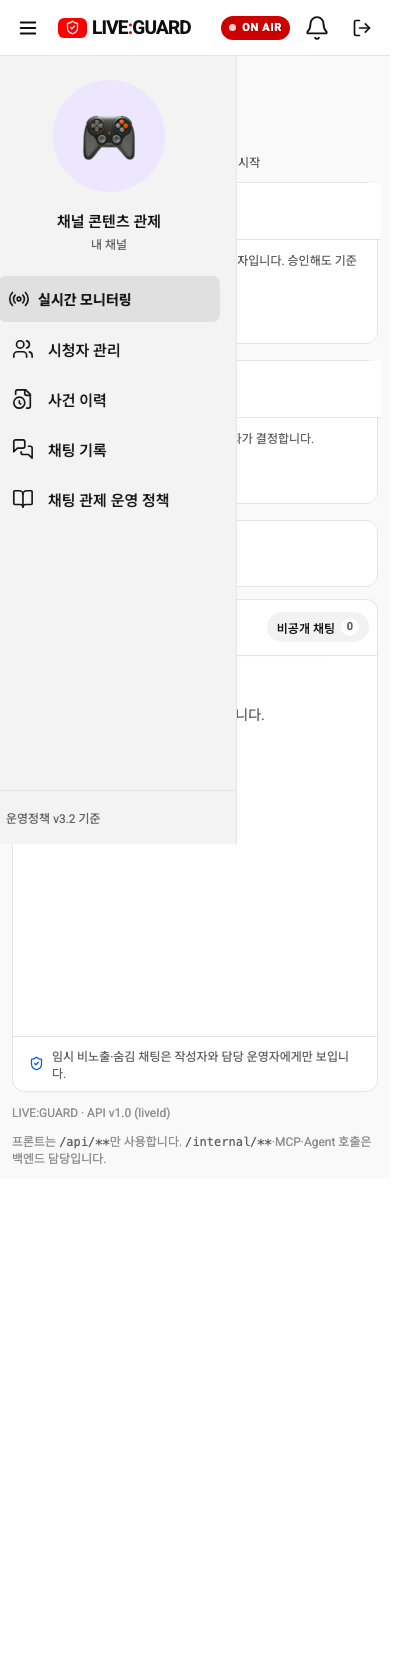
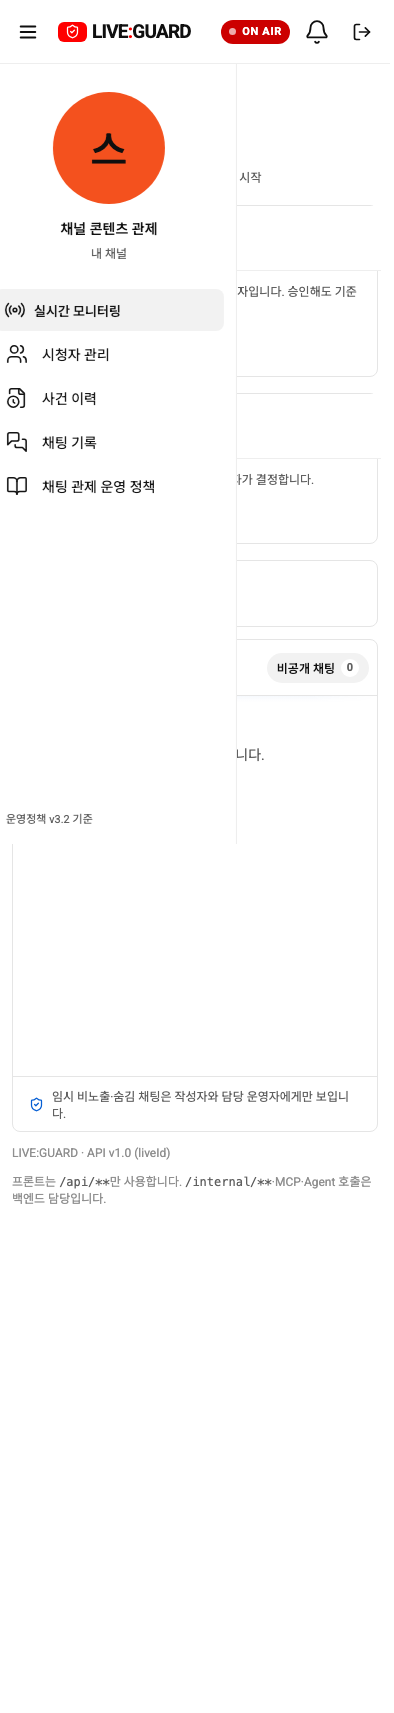
style: align operator consoles with the YouTube Studio reference

diff --git a/src/StudioScreen.vue b/src/StudioScreen.vue
@@ -2,7 +2,7 @@
 // 운영자(스트리머) Studio 화면. 목업과 실제 API가 같은 화면을 쓴다(#12).
 // 화면은 API v1.0 모양의 데이터와 사용자 동작만 다룬다. API·SSE 연결은 LiveConsole.vue, 목업 판정은 mockLive.ts가 맡는다.
 import { computed, nextTick, onBeforeUnmount, onMounted, reactive, ref, watch } from 'vue';
-import { AlertCircle, BookOpen, ChevronDown, ChevronRight, ClipboardCheck, FileClock, LogOut, Menu, MessagesSquare, Pause, Play, Radio, RefreshCcw, ShieldCheck, Sparkles, Users, UserX } from 'lucide-vue-next';
+import { AlertCircle, BookOpen, ChevronDown, ChevronRight, ClipboardCheck, FileClock, LogOut, Menu, MessagesSquare, Pause, Play, Radio, RefreshCcw, ShieldCheck, Users, UserX } from 'lucide-vue-next';
 import ViewerManage from './ViewerManage.vue';
 import OperatorTools from './OperatorTools.vue';
 import DecisionNotifications from './DecisionNotifications.vue';
@@ -340,7 +340,7 @@ const dictRows: { name: string; words: string[]; result: string }[] = [
     <div class="app-body">
       <div v-if="!wide && navOpen" class="nav-backdrop" @click="navOpen = false"/>
       <aside id="operator-nav" class="sidebar" :class="{open: !wide && navOpen, docked: wide && !navCollapsed}" :aria-hidden="!navVisible" :inert="!navVisible">
-        <div class="sidebar-channel"><span class="yt-channel-avatar big">🎮</span><b>채널 콘텐츠 관제</b><small>{{channelName}}</small></div>
+        <div class="sidebar-channel"><span class="yt-channel-avatar big" :style="{background: avatarColor(nickname)}">{{nickname.slice(0,1)}}</span><b>채널 콘텐츠 관제</b><small>{{channelName}}</small></div>
         <nav class="side-nav" aria-label="운영자 메뉴">
           <button aria-label="실시간 모니터링" :class="{active: page==='monitor'}" :aria-current="page==='monitor' ? 'page' : undefined" @click="goto('monitor')"><Radio :size="22" :stroke-width="1.8"/><span>실시간 모니터링</span><b v-if="pending.length" class="side-count">{{pending.length}}</b></button>
           <button :class="{active: page==='viewers'}" :aria-current="page==='viewers' ? 'page' : undefined" @click="goto('viewers')"><Users :size="22" :stroke-width="1.8"/><span>시청자 관리</span></button>
@@ -352,7 +352,7 @@ const dictRows: { name: string; words: string[]; result: string }[] = [
       </aside>
       <div class="workspace">
         <main class="main-content">
-          <div class="status-strip"><div><Sparkles :size="16"/><b>{{pageTitles[page]}}</b></div>
+          <div class="status-strip"><div><Radio :size="18"/><b>{{pageTitles[page]}}</b></div>
             <div class="status-controls"><button v-if="!mock" @click="emit('refresh')"><RefreshCcw :size="14"/> 새로고침</button><button v-if="!mock && !loading && (!live || ended)" class="primary" :disabled="busy" @click="emit('start')">방송 시작</button><button v-if="!mock && live && !ended" :disabled="busy" @click="emit('end')">방송 종료</button></div></div>
           <OperatorTools ref="operatorToolsRef" :live-id="live?.liveId??''" :ended="ended" :reviews="reviews" :progress="kickProgress" @navigate="navigateTool" @open="openToolAlert"/>
           <p v-if="error" class="error-inline" role="alert"><AlertCircle :size="17"/> {{error}}</p>
@@ -407,7 +407,7 @@ const dictRows: { name: string; words: string[]; result: string }[] = [
                   </article>
                 </section>
             <section class="monitor-grid chat-only">
-              <div class="stream-panel card"><div class="stream-caption"><span class="yt-channel-avatar">🎮</span><div><b>{{mock ? '오늘도 게임하는 날! 같이 놀아요 🎮' : '오늘의 라이브'}}</b><small>{{channelName}} · <span class="live-badge">{{ended ? '방송 종료' : '● 실시간'}}</span></small></div></div></div>
+              <div class="stream-panel card"><div class="stream-caption"><span class="yt-channel-avatar studio-stream-icon"><Radio :size="20" :stroke-width="1.7"/></span><div><b>{{mock ? '오늘도 게임하는 날! 같이 놀아요 🎮' : '오늘의 라이브'}}</b><small>{{channelName}} · <span class="live-badge">{{ended ? '방송 종료' : '● 실시간'}}</span></small></div></div></div>
               <div class="chat-panel card"><div class="panel-heading"><h2>실시간 채팅 <ChevronDown :size="17"/></h2><div class="panel-heading-end"><button v-if="feedOn !== null" class="icon-control" :class="{on: feedOn}" :title="feedOn ? '채팅 흐름 일시정지 (MOCK)' : '채팅 흐름 재생 (MOCK)'" :aria-pressed="feedOn" @click="emit('toggleFeed')"><Pause v-if="feedOn" :size="17"/><Play v-else :size="17"/></button><button class="blocked-toggle" :class="{on: filter==='private'}" :aria-pressed="filter==='private'" @click="filter = filter==='all' ? 'private' : 'all'" :title="filter==='all' ? '임시 비노출·숨김 채팅만 보기' : '전체 채팅 보기'">비공개 채팅 <b>{{privateCount}}</b></button></div></div>
                 <div class="scan-wrap"><span class="ai-scan" aria-hidden="true"/><div ref="chatRef" class="chat-list" @scroll.passive="onScroll">
                   <div v-for="m in shownMessages" :key="m.messageId" :data-message-id="m.messageId" class="chat-row" :class="{held: m.visibility==='HELD', hidden: m.visibility==='HIDDEN'}"><span class="chat-avatar" :style="{background: avatarColor(m.authorAlias)}">{{m.authorAlias.slice(0,1)}}</span><span class="chat-line"><b>{{m.authorAlias}}</b><span class="chat-text">{{m.text}}</span></span><span v-if="m.visibility!=='PUBLIC'" class="state-pill" :class="m.visibility.toLowerCase()">{{visibilityLabels[m.visibility]}}</span><time class="chat-time" :datetime="iso(m.sentAt)" :title="asTime(m.sentAt)">{{hourMinute(iso(m.sentAt))}}</time></div>

diff --git a/src/style.css b/src/style.css
@@ -1242,3 +1242,58 @@ code{font-family:'Roboto Mono',ui-monospace,Consolas,monospace}
 }
 
 .notification-activity-link{display:block;border:0;background:none;color:#065fd4;font-size:12px;margin-top:8px;padding:4px 0;cursor:pointer}
+
+/* YouTube Studio reference: white workspace, restrained chrome and neutral surfaces. */
+:is(.studio-shell,.sys-shell){background:#fff;color:#0f0f0f}
+:is(.studio-shell,.sys-shell) .topbar{height:64px;border-bottom:1px solid #eee;background:#fff}
+.studio-shell .sidebar{top:64px;height:calc(100dvh - 64px);background:#fff;border-right:1px solid #eee}
+.studio-shell .sidebar.docked{top:64px}
+.studio-shell .nav-backdrop{top:64px}
+.studio-shell .sidebar-channel{padding:28px 16px 24px;gap:6px}
+.studio-shell .sidebar-channel .big{width:112px;height:112px;font-size:40px;font-weight:500}
+.studio-shell .sidebar-channel b{font-size:14px;font-weight:500;margin-top:8px}
+.studio-shell .sidebar-channel small{font-size:12px;color:#606060}
+.studio-shell .side-nav{gap:2px;padding:4px 12px}
+.studio-shell .side-nav button{height:42px;font-size:14px;font-weight:400;border-radius:8px;gap:14px;padding:0 12px}
+.studio-shell .side-nav button.active{background:#f2f2f2;font-weight:500}
+.studio-shell .side-nav button:hover{background:#f2f2f2}
+.studio-shell .side-nav button svg{flex:none;stroke-width:1.7}
+.studio-shell .side-nav button[aria-label="실시간 모니터링"]{font-size:13px;gap:8px;padding:0 10px}
+.studio-shell .sidebar-foot{border-top:0;font-size:11px;color:#606060}
+:is(.studio-shell,.sys-shell) .main-content{padding-top:28px;padding-bottom:24px}
+.studio-shell .status-strip{margin-bottom:24px}
+.studio-shell .status-strip b,.sys-shell .sys-head h1{font-size:24px;line-height:1.4;font-weight:500;letter-spacing:-.4px}
+.studio-shell .status-strip>div:first-child>svg{color:#0f0f0f}
+.studio-shell .studio-live-line{font-size:12px;margin-bottom:20px;color:#606060}
+:is(.studio-shell,.sys-shell) .card{border:1px solid #e5e5e5;border-radius:8px;box-shadow:none;background:#fff}
+.studio-shell .live-monitoring-grid{gap:20px}
+.studio-shell .live-monitoring-grid .decision-queue{border-color:#e5e5e5;border-radius:8px;background:#fff}
+.studio-shell .live-monitoring-grid .section-head{padding-top:18px;padding-bottom:16px;border-bottom-color:#eee}
+.studio-shell .live-monitoring-grid .section-head h2{font-size:15px;font-weight:500}
+.studio-shell .section-icon.human{background:#f2f2f2;color:#0f0f0f}
+.studio-shell .pending-count{background:#f2f2f2;color:#606060;border-radius:12px;font-weight:500;padding:3px 8px}
+.studio-shell .studio-review,.studio-shell .studio-review.kick{background:#fff;border:1px solid #e5e5e5;border-radius:8px}
+.studio-shell .review-head:hover{background:#f8f8f8}
+.studio-shell .review-head b{font-weight:500}
+.studio-shell .review-target{background:#f7f7f7;border-left-color:#bdbdbd;font-weight:400;line-height:1.6}
+.studio-shell .queue-note{color:#606060;line-height:1.65}
+.studio-shell .studio-stream-icon{background:#f2f2f2;color:#0f0f0f}
+.studio-shell .stream-caption b{font-weight:500}
+.studio-shell .panel-heading h2{font-size:16px;font-weight:500}
+.studio-shell .secondary-heading h2{font-size:22px;font-weight:500}
+.studio-shell .secondary-heading h2 svg{color:#0f0f0f}
+.studio-shell .secondary-heading{border-bottom-color:#e5e5e5;padding-bottom:24px}
+:is(.studio-shell,.sys-shell) input:not([type=radio]):not([type=checkbox]),:is(.studio-shell,.sys-shell) select{border-color:#d5d5d5;border-radius:6px}
+.sys-shell .sys-side{background:#fff;border-right-color:#eee}
+.sys-shell .sys-side button{font-size:14px;font-weight:400;border-radius:8px;min-height:42px}
+.sys-shell .sys-side button.on{background:#f2f2f2;color:#0f0f0f;font-weight:500}
+.sys-shell .sys-side button:hover{background:#f2f2f2}
+.sys-shell .sys-section-head h2{font-size:18px;font-weight:500}
+.sys-shell .sys-chart-card h2{font-weight:500}
+.sys-shell .sys-filter button,.sys-shell .sys-chips button{border-radius:18px}
+:is(.studio-shell,.sys-shell) .decision-notification-panel{box-shadow:0 4px 24px #0002}
+@media(max-width:1100px){:is(.studio-shell,.sys-shell) .main-content{padding-top:20px}.studio-shell .nav-backdrop{inset:64px 0 0}}
+@media(max-width:600px){:is(.studio-shell,.sys-shell) .main-content{padding-top:16px}.studio-shell .status-strip b,.sys-shell .sys-head h1{font-size:20px}.studio-shell .live-monitoring-grid{gap:16px}.studio-shell .status-strip{margin-bottom:20px}}
+
+.sys-shell .sys-layout{min-height:calc(100dvh - 64px)}
+.studio-shell .ai-evidence{background:#fafafa;border-color:#e5e5e5}

diff --git a/docs/studio-reference-style.md b/docs/studio-reference-style.md
@@ -1,0 +1,44 @@
+# YouTube Studio 참고 스타일 반영
+
+사용자가 제공한 YouTube Studio 화면을 기준으로 스트리머·시스템 운영자의 시각적 틀을 실제로 변경했습니다. 참고 화면의 프로필 편집 기능을 추가하는 작업이 아니라 현재 관제 기능에 흰 작업 공간·절제된 테두리·메뉴·타이포그래피·간격을 적용한 변경입니다.
+
+| 영역 | 이전 | 반영 |
+| --- | --- | --- |
+| 작업 공간·사이드바 | 회색 바탕과 진한 선택 면 | 흰 바탕, #eee 구분선, #f2f2f2 선택·호버 |
+| 헤더 | 56px, 본문과 다소 붙은 구성 | 64px 헤더, 28px 본문 상단 간격. 휴대폰은 간격 축소 |
+| 메뉴 | 46px 높이·굵은 글자 | 42px 높이·14px 본문·보통 굵기·검은 선 아이콘 |
+| 프로필·방송 표시 | 게임패드 이모지 장식 | 실제 운영자 이름의 이니셜과 단색 방송 아이콘. 가짜 프로필 이미지를 만들지 않음 |
+| 카드·대기열 | 둥근 테두리와 강퇴 카드의 분홍 면 | 8px 모서리, #e5e5e5 얇은 테두리, 흰 카드와 중립적 건수 표시 |
+| 근거·인용 | 보라색 인용선·옅은 색상 면 | 연회색 바탕과 얇은 구분으로 읽는 순서 정리 |
+| 제목·본문 | 굵고 큰 제목 반복 | 페이지 24px/500, 영역 15–18px/500, 안내 #606060 |
+| 시스템 운영자 | 별도 회색 틀 | 같은 흰 작업 공간·메뉴·카드·둥근 필터 버튼 규칙 |
+
+강퇴→문맥→채팅 순서, 우상단 종·설정·처리 알림, 회색 OFF AIR, 공통 로그아웃, 새 요청 강조와 움직임 줄이기를 유지했습니다. 경고·판정 상태와 검증된 차트 색상은 유지합니다. 스타일은 `.studio-shell`·`.sys-shell`에 한정해 시청자 화면을 바꾸지 않습니다. API·정책·ERD·결정 요청 형식은 변경하지 않았습니다.
+
+## 전후 및 실제 API 확인
+
+[변경 전 3열 목업](https://github.com/skalaP05-03-261019/liveguard-fe/blob/bd1e042be4101f5d1eeaa2ec2463c84d350fcc95/docs/evidence/unified-monitoring/monitoring-three-columns.png)
+
+![변경 후 스트리머 목업](evidence/studio-reference/01-mock-streamer.png)
+
+![변경 후 시스템 운영자 목업](evidence/studio-reference/02-mock-system.png)
+
+3000번 프론트엔드만 Docker 재빌드·재시작했습니다. 실제 스트리머·시스템 운영자 로그인, 종 상세·설정·정책 페이지, 390·360px 가로 넘침 없음, ON AIR/회색 OFF AIR와 로그아웃 아이콘을 확인했습니다. 진행 중인 방송·업무 데이터를 변경하지 않았습니다.
+
+![실제 API 스트리머](evidence/studio-reference/03-api-streamer.png)
+
+![실제 API 시스템 운영자](evidence/studio-reference/04-api-system.png)
+
+<details><summary>정책 페이지·휴대폰</summary>
+
+![정책](evidence/studio-reference/05-api-policy.png)
+
+![390px](evidence/studio-reference/06-api-390.png)
+
+![360px](evidence/studio-reference/07-api-360.png)
+
+</details>
+
+## 검증
+
+집중 브라우저 검사 9개와 최종 전체 브라우저 회귀 71/71이 통과했습니다. 목업 빌드와 Docker API 빌드, `git diff --check`도 통과했습니다. 실제 API 화면은 실데이터 조회이며 검토 0건입니다. 목업의 신규 요청 효과·결정 카드 검증과 구분합니다.

diff --git a/docs/api-console-parity.md b/docs/api-console-parity.md
@@ -6,7 +6,7 @@
 
 5173번 Vite 개발 서버는 소스 변경을 바로 반영하지만, 3000번은 Docker 안의 정적 빌드를 제공합니다. 이전 3000번 자산에는 종·통합 화면·OFF AIR 코드가 없었습니다. 프론트엔드만 `docker compose build frontend`와 `docker compose up -d --no-deps frontend`로 갱신했습니다. 빌드 소스는 `liveguard-fe`, `VITE_USE_API=true`입니다. BE·Agent·DB는 재시작하지 않았습니다.
 
-현재 3000번 자산은 `/assets/index-B6UAg0u6.js`이며 종·통합 화면·OFF AIR 코드가 포함돼 있습니다. 향후 프론트 소스를 수정해도 Docker는 자동 갱신되지 않으므로 3000번 반영을 다시 확인해야 합니다.
+현재 3000번 자산은 `/assets/index-BXecjCOp.js`이며 종·통합 화면·OFF AIR 코드가 포함돼 있습니다. 향후 프론트 소스를 수정해도 Docker는 자동 갱신되지 않으므로 3000번 반영을 다시 확인해야 합니다.
 
 ## 실제 API 화면 체크
 
@@ -68,3 +68,6 @@ SSE 차단은 검사 브라우저에만 적용했습니다. 실행 중인 방송
 
 
 상단 관제 알림·설정 버튼·단축키 안내·노란 배너를 제거한 화면으로 캡처를 갱신했습니다. 설정은 종의 톱니바퀴로 접근합니다. 3000번 재빌드 후 종 상세·설정과 360/390px 가로 넘침 없음을 실제 로그인으로 확인했습니다.
+
+
+YouTube Studio 참고 스타일을 운영자 두 화면에 적용했습니다. 흰 작업 공간·사이드바·연회색 선택 메뉴·얇은 테두리·정돈된 글자와 간격의 전후 비교는 [스타일 반영 보고서](studio-reference-style.md)를 참고합니다. 실제 API 콘솔 재빌드와 두 운영자 역할 로그인·모바일 확인을 마쳤습니다.
